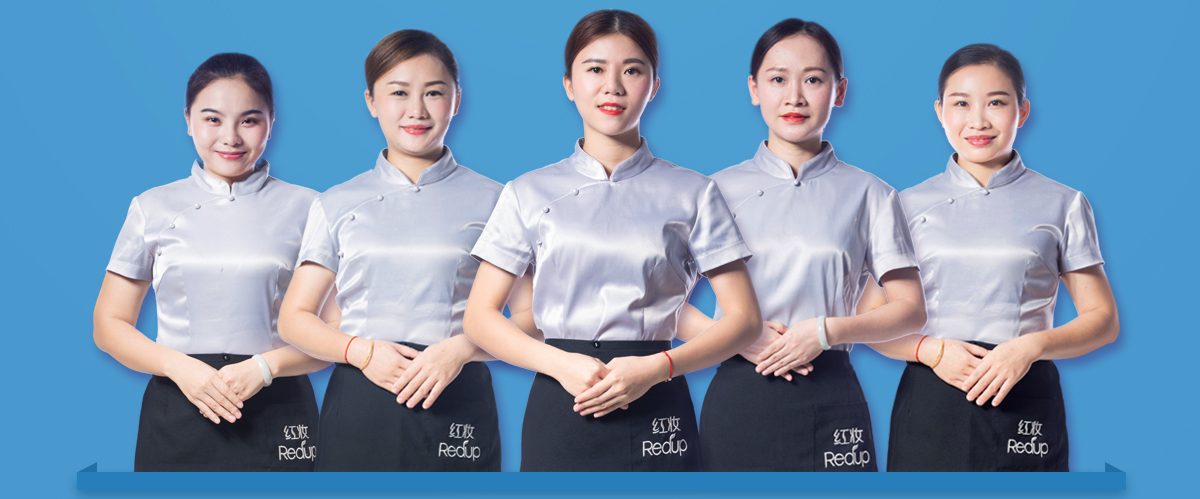
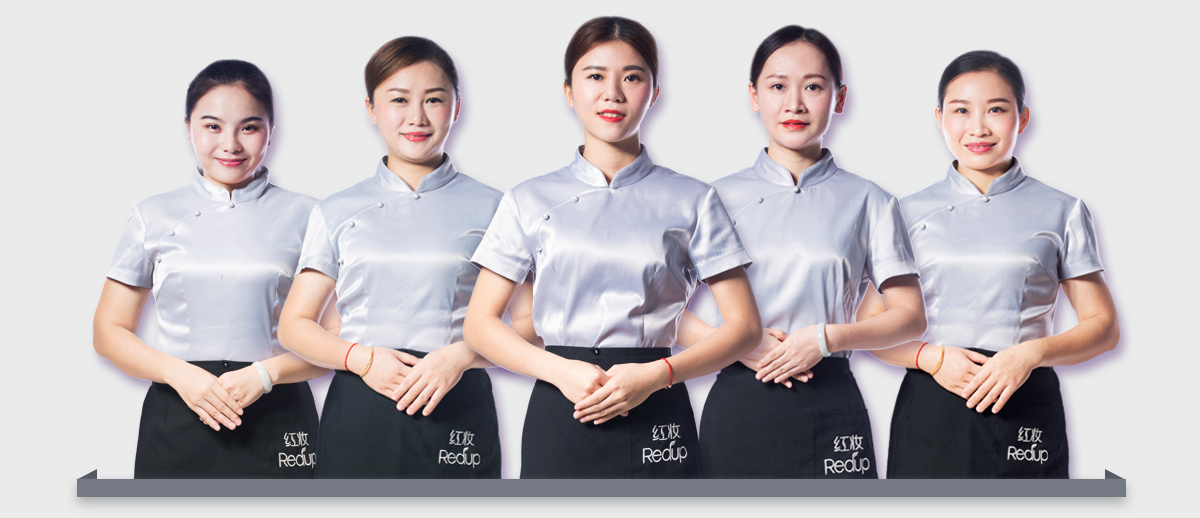
首页样式修改
首页样式修改

diff --git a/static.hzshuangmei.com/css/pc/sy_common.css b/static.hzshuangmei.com/css/pc/sy_common.css
@@ -608,7 +608,7 @@ nav > ul > li ul .n_button a {
 .index_items .shuang_m1 > div span {
     font-size: 18px;
 
-    color: #4f3d79;
+    color: #3c5e75;
 }
 .index_items .shuang_m1 > div i {
     display: block;
@@ -617,16 +617,16 @@ nav > ul > li ul .n_button a {
     margin-top: 24px;
 }
 .index_items .shuang_m1 > div:first-child i {
-    background: url(//img.hzshuangmei.com/pc/p5_01.png) no-repeat center;
+    background: url(//img.hzshuangmei.com/pc/sy/p5_01.png) no-repeat center;
 }
 .index_items .shuang_m1 > div:nth-child(2) i {
-    background: url(//img.hzshuangmei.com/pc/p5_02.png) no-repeat center;
+    background: url(//img.hzshuangmei.com/pc/sy/p5_02.png) no-repeat center;
 }
 .index_items .shuang_m1 > div:nth-child(3) i {
-    background: url(//img.hzshuangmei.com/pc/p5_03.png) no-repeat center;
+    background: url(//img.hzshuangmei.com/pc/sy/p5_03.png) no-repeat center;
 }
 .index_items .shuang_m1 > div:last-child i {
-    background: url(//img.hzshuangmei.com/pc/p5_04.png) no-repeat center;
+    background: url(//img.hzshuangmei.com/pc/sy/p5_04.png) no-repeat center;
 }
 .index_items .shuang_m1 > div .icon {
     float: left;
@@ -641,7 +641,7 @@ nav > ul > li ul .n_button a {
     line-height: 24px;
 }
 .index_items .shuang_m1 > div ul a {
-    color: #593d79;
+     color: #3c5e75;
 }
 .index_items .shuang_m1 > div:first-child ul {
     margin-top: 42px;
@@ -672,7 +672,7 @@ footer {
     height: 398px;
 
     color: #fff;
-    background-color: #300a4e;
+    background-color: #5792bb;
 }
 footer .left {
     float: left;
@@ -709,8 +709,8 @@ footer .middle {
     height: 206px;
     margin-top: 120px;
 
-    border-right: 1px solid #55128d;
-    border-left: 1px solid #300a4e;
+    border-right: 1px solid #5d819a;
+    border-left: 1px solid #5d819a;
 }
 footer .right {
     float: left;
@@ -783,10 +783,10 @@ footer .left a {
 footer .copyright {
     padding-top: 22px;
 
-    color: #c1b6ca;
+    color: #ddf1ff;
 }
 footer .copyright a {
-    color: #c1b6ca;
+    color: #ddf1ff;
 }
 footer .copyright a:hover {
     color: #ceb3e0;

diff --git a/static.hzshuangmei.com/css/pc/sy_index.css b/static.hzshuangmei.com/css/pc/sy_index.css
@@ -229,7 +229,7 @@ video::-webkit-media-controls-panel {
     width: 13px;
     height: 14px;
 
-    background: url(//img.hzshuangmei.com/pc/n_inform.png) no-repeat center;
+    background: url(//img.hzshuangmei.com/pc/sy/n_inform.png) no-repeat center;
 }
 
 .index_news .news .recommend a {
@@ -464,7 +464,7 @@ h3 img {
     display: block;
     height: 478px;
 
-    background-color: #4897cd;
+    background-color: #eaebeb;
 }
 
 .index_expert #tabCon3 img {
@@ -485,7 +485,7 @@ h3 img {
 }
 
 .index_clients #tab4 ul {
-    width: 508px;
+    width: 516px;
     margin: 24px auto 50px;
 }
 
@@ -1206,28 +1206,11 @@ body  #hltd .hltd img {
     width: 1200px;
     height: 478px;
 }
-.index_items .shuang_m1 > div span {
-    color: #3c5e75;
-}
-.index_items .shuang_m1 > div ul a {
-    color: #3c5e75;
-}
-#footer {
-        background-color: #5792bb;
-}
-#footer .middle {
-    border-right: 1px solid #5d819a;
-    border-left: 1px solid #5d819a;
-}
-#footer .copyright a {
-    color: #ddf1ff;
-}
-#footer .copyright {
-    color: #ddf1ff;
-}
 .index_expert #tabCon3 .swiper-button-prev4, .swiper-container-rtl .swiper-button-next4 {
     top: 257px;
+    background-image: url(//img.hzshuangmei.com/pc/sy/p2_arrow_l.png);
 }
 .index_expert #tabCon3 .swiper-button-next4, .swiper-container-rtl .swiper-button-prev4 {
     top: 257px !important;
+    background-image: url(//img.hzshuangmei.com/pc/sy/p2_arrow_r.png);
 }

diff --git a/www.syshuangmei.com/templets/shuangmei/index.htm b/www.syshuangmei.com/templets/shuangmei/index.htm
@@ -10,7 +10,6 @@
     <link rel="preload" href="{dede:global.cfg_csspath/}/pc/sy_index.css" as="style" crossorigin />
     <link rel="preload" href="{dede:global.cfg_jspath/}/pc/index.js" as="script" crossorigin async="true"/>
     <link rel="preload" href="https://img.hzshuangmei.com/pc/brand2.webm" as="video"  type="video/webm" crossorigin />
-     <link rel="stylesheet" href="{dede:global.cfg_csspath/}/pc/sy_common.css"/>
     <link rel="stylesheet" href="{dede:global.cfg_csspath/}/pc/sy_index.css"/>
     <link rel="canonical" href="https://www.hzshuangmei.com/">
     <link rel="alternate" media="only screen and(max-width: 640px)"     href="https://m.hzshuangmei.com/" >
